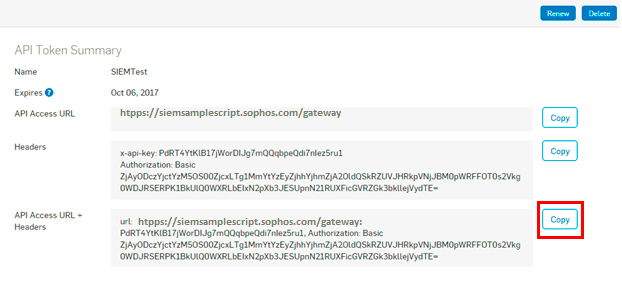
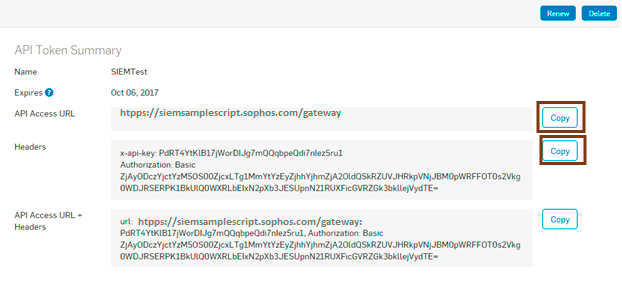
Readme file and image updated...

Changed region(s): [[0.8553, 0.3368, 0.9469, 0.5895], [0.8553, 0.7018, 0.9469, 0.8421]]

diff --git a/collectors/sophossiem/README.md b/collectors/sophossiem/README.md
@@ -15,7 +15,7 @@ forward logs to the Alert Logic CloudInsight backend services.
 2. To create a new token, click Add token from the top-right corner of the screen.<br />
 3. Select a token name and click Save. The API Token Summary for this token is displayed.<br />
 ![ScreenShot](./docs/img2.png)<br />
-4. Click Copy to copy your API Access URL + Headers from the API Token Summary section into your clipboard.<br />
+4. Click on Copy to copy your API Access URL and Headers from the API Token Summary section into your clipboard.<br />
 ![ScreenShot](./docs/img3.png)<br />
 
 ### 2. CloudFormation Template (CFT)
